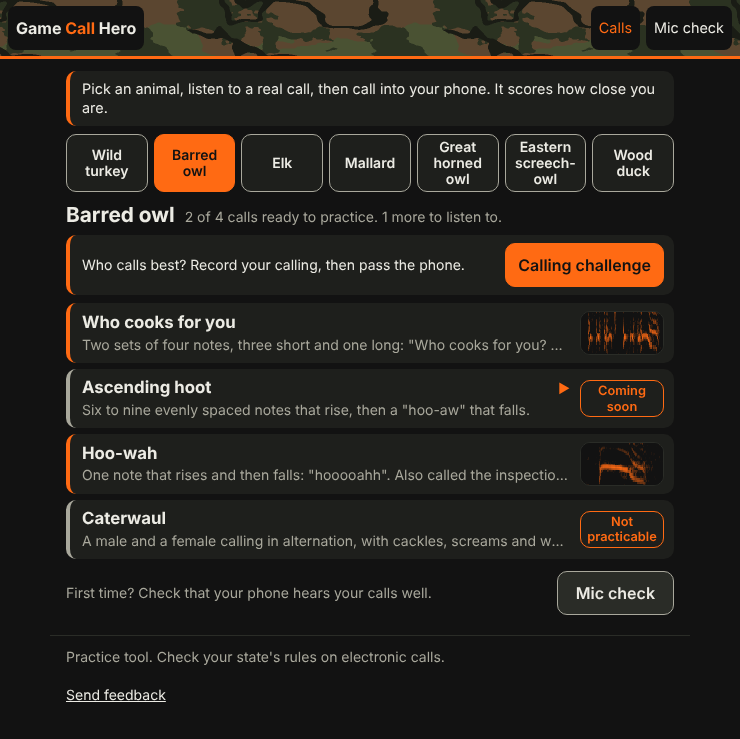
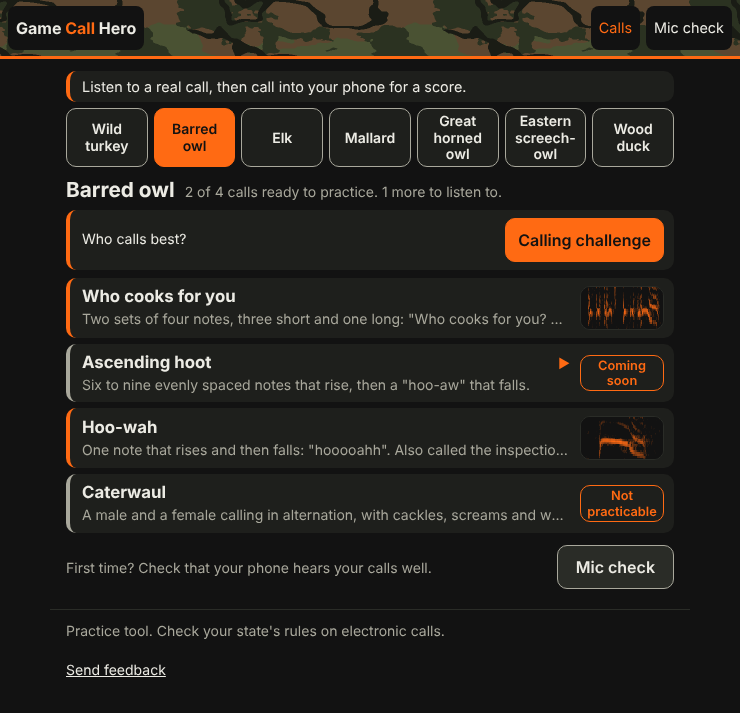
Home: more headroom so every call fits the first screen with wider fonts
CI's fonts wrapped the first-run line and the challenge card one line more than
the local ones, pushing the last call half off a 360x740 screen. Shorter first-run
line and a one-line challenge card leave about 70 px spare.

Claude-Session: https://claude.ai/code/session_017Dod3sBZCSRQft9k4RzLNP

diff --git a/src/screens/home.ts b/src/screens/home.ts
@@ -25,7 +25,7 @@ export function homeScreen(root: HTMLElement, param = ''): () => void {
     (ready > 0 ? `${ready} of ${count(species.calls.length)} ready to practice.` : 'No calls to practice yet.') +
     (listenOnly > 0 ? ` ${ready > 0 ? `${listenOnly} more` : count(listenOnly)} to listen to.` : '');
   root.innerHTML = `
-    ${firstVisit ? `<p class="first-run" id="home-intro">Pick an animal, listen to a real call, then call into your phone. It scores how close you are.</p>` : ''}
+    ${firstVisit ? `<p class="first-run" id="home-intro">Listen to a real call, then call into your phone for a score.</p>` : ''}
     <div class="species-picker" role="group" aria-label="Species">
       ${SPECIES.map(
         (s) =>
@@ -36,7 +36,7 @@ export function homeScreen(root: HTMLElement, param = ''): () => void {
     ${
       scorableCalls(species).length > 0
         ? `<div class="challenge-cta">
-      <p>Who calls best? Record your calling, then pass the phone.</p>
+      <p>Who calls best?</p>
       <a class="btn primary" href="${challengeHref(species)}">Calling challenge</a>
     </div>`
         : `<div class="challenge-cta" id="challenge-soon">

diff --git a/src/styles/theme.css b/src/styles/theme.css
@@ -119,7 +119,7 @@ h2:focus { outline: none; }
 .species-option[aria-current="true"] { background: var(--accent); border-color: var(--accent); color: var(--on-accent); }
 .species-option:focus-visible { outline: 3px solid var(--text); outline-offset: 2px; }
 
-.first-run { margin: 0 0 8px; padding: 8px 12px; background: var(--surface); border-left: 4px solid var(--accent); border-radius: var(--radius); font-size: 0.9rem; line-height: 1.35; }
+.first-run { margin: 0 0 6px; padding: 6px 12px; background: var(--surface); border-left: 4px solid var(--accent); border-radius: var(--radius); font-size: 0.9rem; line-height: 1.35; }
 .home-head { display: flex; flex-wrap: wrap; align-items: baseline; gap: 0 10px; margin-bottom: 4px; }
 .home-head h2 { margin-bottom: 2px; }
 .home-head p { margin: 0 0 4px; font-size: 0.875rem; }

diff --git a/e2e/library.e2e.ts b/e2e/library.e2e.ts
@@ -165,7 +165,7 @@ test('locked call with listen-only clips: plays, credits each clip, offers no pr
 // UX review: what a first-time user is told on the home screen, and the page title per screen.
 test('home: first-run line, how many calls are ready, page titles and heading focus', async ({ page }) => {
   await page.goto('');
-  await expect(page.locator('#home-intro')).toContainText('Pick an animal');
+  await expect(page.locator('#home-intro')).toContainText('Listen to a real call');
   await expect(page.locator('#home-summary')).toHaveText('2 of 5 calls ready to practice.');
   await expect(page).toHaveTitle('Wild turkey · Game Call Hero');
 

diff --git a/docs/UX-REVIEW.md b/docs/UX-REVIEW.md
@@ -48,7 +48,7 @@ passes, plus the new ones listed.
 
 | # | Fix | Where |
 |---|---|---|
-| 1 | First-run line on the home screen ("Pick an animal, listen to a real call, then call into your phone. It scores how close you are."), shown until a best score is saved | `src/screens/home.ts` |
+| 1 | First-run line on the home screen ("Listen to a real call, then call into your phone for a score."), shown until a best score is saved | `src/screens/home.ts` |
 | 2 | **Locked calls can be listened to** where the recordings allow it: 10 of the 15 locked calls now play their recordings with the spectrogram and full credits, marked "Listen only for now". Mallard and eastern screech-owl are worth opening again | `src/calls/listen.ts`, `src/screens/call-detail.ts`, `test/listen.test.ts`, `e2e/library.e2e.ts` |
 | 3 | No more disabled buttons: a locked call offers "Other &lt;species&gt; calls", a locked practice URL offers "Back to &lt;call&gt;" | `src/screens/call-detail.ts`, `src/screens/practice.ts` |
 | 4 | Home says how many calls are ready ("2 of 5 calls ready to practice. 1 more to listen to."); locked rows get a grey edge and a ▶ marker when they can be played | `src/screens/home.ts`, `src/styles/theme.css` |
